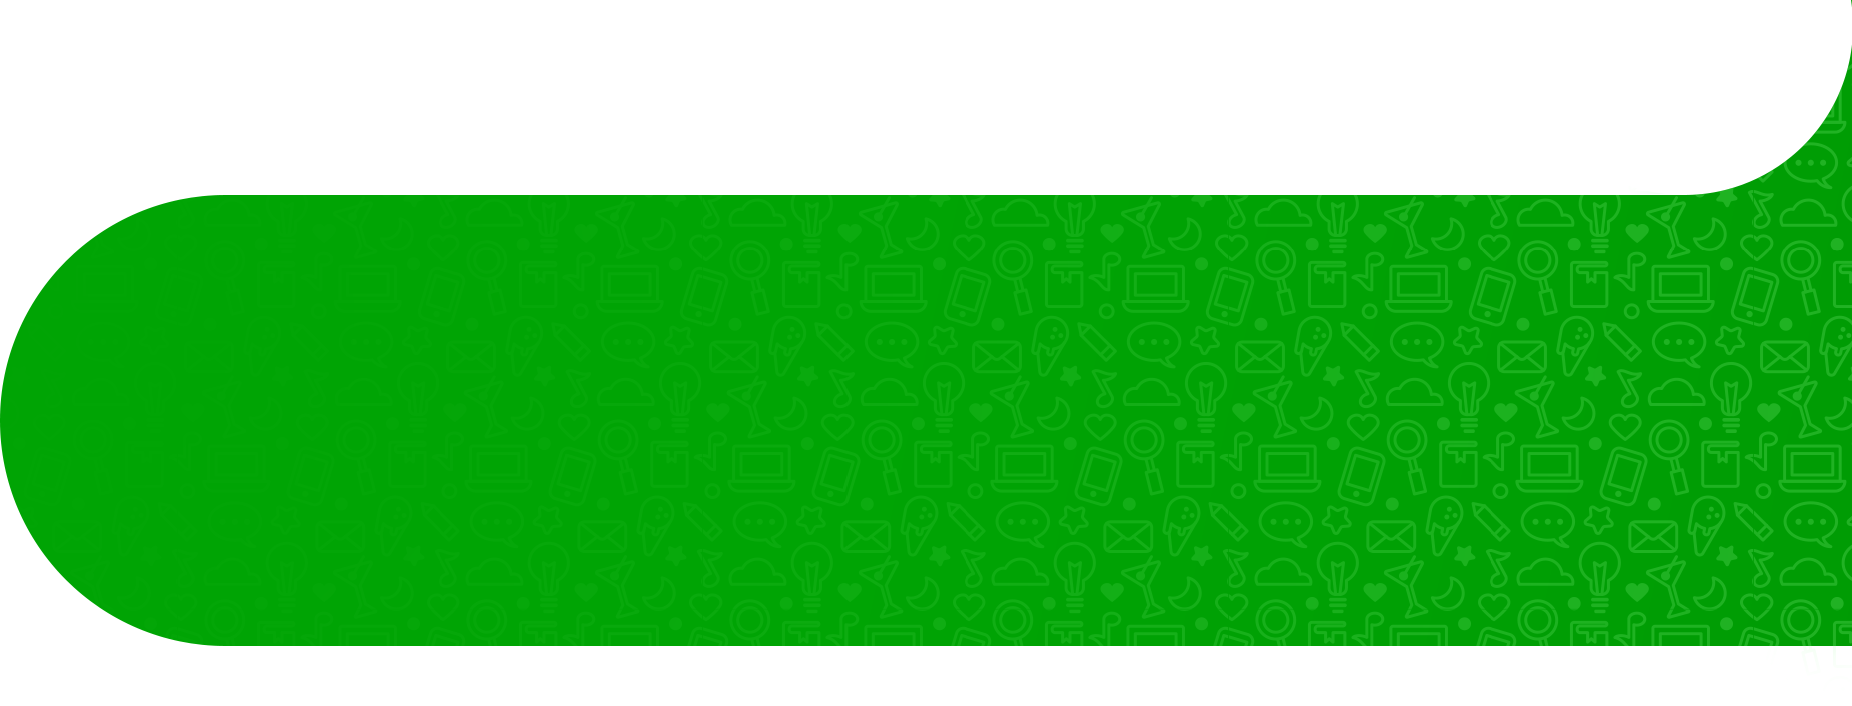
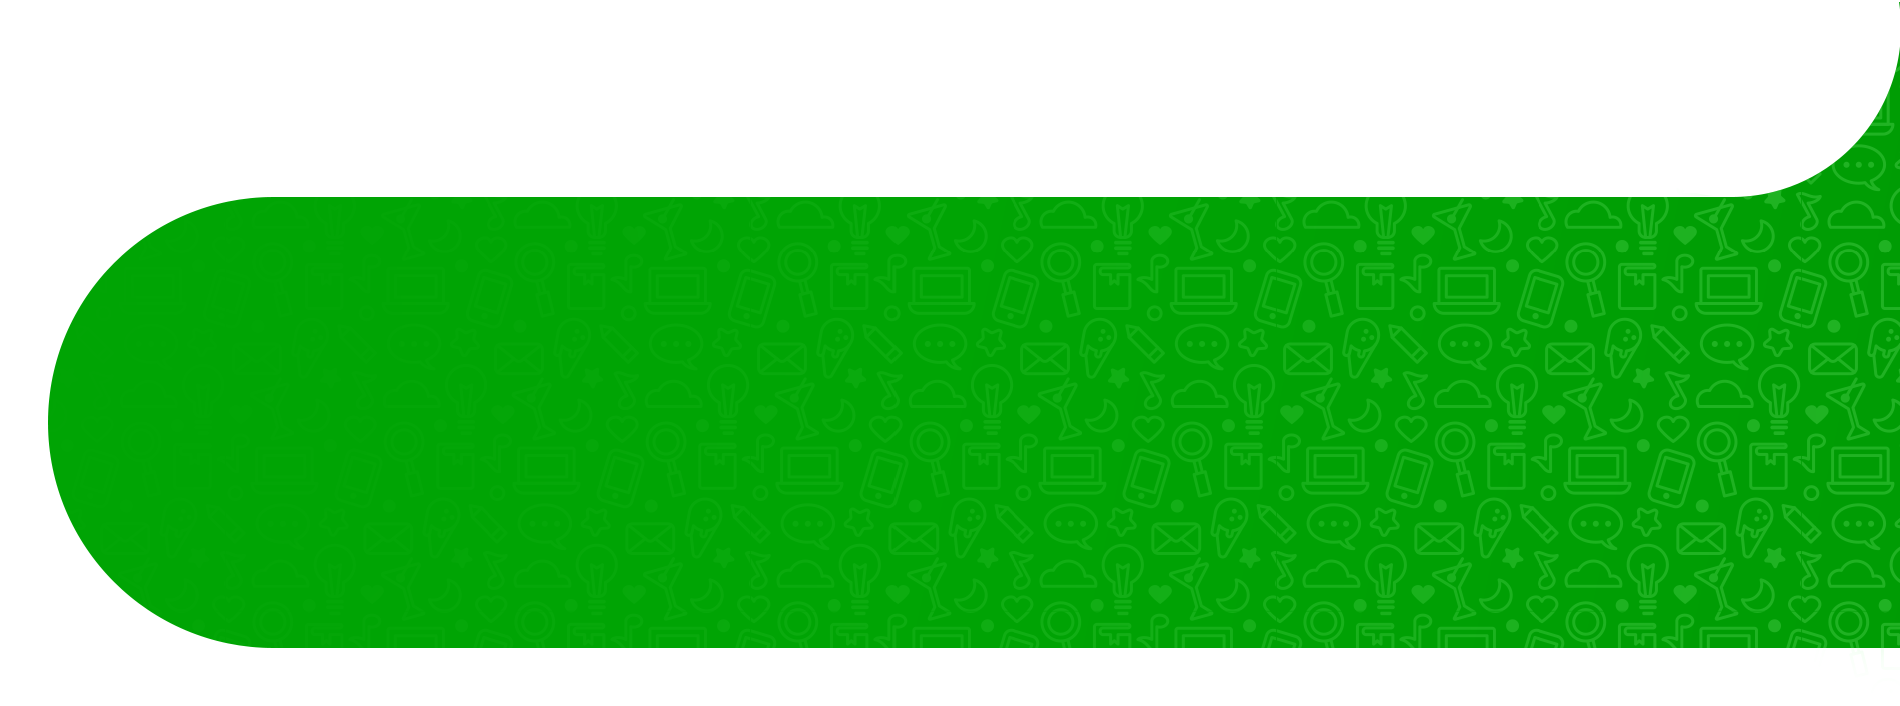
add new

diff --git a/src/app/header/header.component.css b/src/app/header/header.component.css
@@ -1,19 +1,21 @@
 .container{
   background-image: url(../../assets/images/Header_Main_IMG.png);
   background-repeat: no-repeat;
-  width: 100%;
   display: flex;
+  background-position: center;
+  justify-content: center;
 }
 
 .container_logo{
   display: flex;
+  margin-left: -620px;
   flex-direction: column;
 }
 
 .container_logo_Img{
   height: 73px;
   width: 283px;
-  margin: 50px 250px 25px;
+  margin: 50px 0px 25px;
 }
 
 .container_text{
@@ -24,7 +26,6 @@
 .container_main_text{
   font-size: 50px;
   color: #ffffff;
-  margin-left: 250px;
   font-family: -apple-system, BlinkMacSystemFont, 'Segoe UI', Roboto, Oxygen, Ubuntu, Cantarell, 'Open Sans', 'Helvetica Neue', sans-serif;
 }
 
@@ -35,7 +36,6 @@
   margin-bottom: 5px;
 }
 .container_text_content{
-  margin-left: 250px;
   color: #ffffff;
   margin-bottom: 30px;
 }
@@ -55,8 +55,9 @@
 }
 
 .container_header_phone_img{
-  width: 900px;
-  margin-left: -200px;
+  width: 794px;
+  margin-top: 78px;
+
 }
 
 .container_header_phone{

diff --git a/src/app/search-field/search-field.component.css b/src/app/search-field/search-field.component.css
@@ -9,6 +9,7 @@
   background-repeat: no-repeat;
 }
 
+
 .container_areacode{
   height: 40px;
   width: 100px;
@@ -73,11 +74,34 @@ input::-webkit-inner-spin-button {
 }
 
 .country{
-  width: 300px;
+  width: 130px;
   position: absolute;
   height: 250px;
-  overflow: scroll;
-  right: 40px;
+  overflow: overlay;
+  right: -1px;
+  top: 0;
+  border: solid;
+  background-color: white;
+  border-top-right-radius: 17px;
+  border-bottom-right-radius: 17px;
+  border-top-left-radius: 17px;
+  border-bottom-left-radius: 17px;
+}
+
+::-webkit-scrollbar {
+  overflow-y: scroll;
+  background: #5f5f5f;
+  border-radius: 50px;
+  border-top-left-radius: 50%;
+  border-bottom-left-radius: 50%;
+  box-shadow: inset 0 0 4px #707070;
+  height: 150px;
+}
+
+::-webkit-scrollbar-thumb {
+    background: #aaaaaa;
+    border-top-right-radius: 40%;
+    border-bottom-right-radius: 40%;
 }
 
 .dropdown_icon_img{

diff --git a/src/app/bottom-download/bottom-download.component.css b/src/app/bottom-download/bottom-download.component.css
@@ -1,0 +1,41 @@
+.container_contant{
+  background-image: url(../../assets/images/bottom-image.png);
+  min-height: 890px;
+  margin-top: 162px;
+  background-position: top center;
+  background-repeat: no-repeat;
+  display: flex;
+  justify-content: center;
+  align-items: center;
+}
+
+.container_btn_google{
+  pointer-events: fill;
+  width: 220px;
+  margin-top: 2px;
+  margin-left: 30px;
+}
+
+.container_btn{
+  height: 70px;
+  width: 280px;
+  margin-top: 15px;
+  border-radius: 50px;
+  background-color: black;
+}
+
+.text{
+  margin-top: 239px;
+    display: flex;
+    flex-direction: column;
+    justify-content: center;
+    align-items: center;
+    font-size: 44px;
+    color: #00a404;
+}
+
+.logo{
+  margin-top: 206px;
+  margin-bottom: -11px;
+  width: 1900px;
+}

diff --git a/src/app/app.module.ts b/src/app/app.module.ts
@@ -6,6 +6,8 @@ import { HeaderComponent } from './header/header.component';
 import { SearchFieldComponent } from './search-field/search-field.component';
 import { SearchFieldCountryComponent } from './search-field/search-field-country/search-field-country.component';
 import { HowitworkComponent } from './howitwork/howitwork.component';
+import { VideoComponent } from './video/video.component';
+import { BottomDownloadComponent } from './bottom-download/bottom-download.component';
 
 @NgModule({
   declarations: [
@@ -14,6 +16,8 @@ import { HowitworkComponent } from './howitwork/howitwork.component';
     SearchFieldComponent,
     SearchFieldCountryComponent,
     HowitworkComponent,
+    VideoComponent,
+    BottomDownloadComponent,
   ],
   imports: [
     BrowserModule,

diff --git a/src/app/bottom-download/bottom-download.component.html b/src/app/bottom-download/bottom-download.component.html
@@ -1,0 +1,16 @@
+
+<div class="container">
+  <div class="container_contant">
+      <div class="text">
+        <p>Download <b>App</b></p>
+        <div class="container_btn">
+          <a class="container_btn_a" href="https://google.com">
+          <img class="container_btn_google" src="assets/images/google-play-badge.png" alt="google play">
+          </a>
+      </div>
+      <div class="bottom_logo">
+        <img class="logo" src="assets/images/bootom_startchatlogo.png" alt="">
+      </div>
+    </div>
+  </div>
+</div>

diff --git a/src/app/howitwork/howitwork.component.css b/src/app/howitwork/howitwork.component.css
@@ -5,12 +5,11 @@
   margin-top: -550px;
   flex-direction: column;
   background-image: url(../../assets/images/howitworkback.png);
-  background-position: right;
-  width: 1920px;
+  background-position: center;
+  width: 100%;
   background-repeat: no-repeat;
   background-position-y: 250px;
 }
-
 .container_header_text{
   font-weight: 400;
   color:#00a404;
@@ -77,7 +76,7 @@
 .icons{
   margin-top: -120px;
   display: flex;
-  width: 100%;
+  width: 1900px;
   justify-content: space-evenly;
 }
 

diff --git a/src/app/video/video.component.html b/src/app/video/video.component.html
@@ -1,0 +1,6 @@
+<div class="container">
+    <div class="container_video">
+      <img class="video_border" src="assets/images/computer.png" alt="">
+      <iframe class="video" src="https://www.youtube.com/embed/7_gIbNoRza4" frameborder="0" allow="accelerometer; autoplay; clipboard-write; encrypted-media; gyroscope; picture-in-picture" allowfullscreen></iframe>
+     </div>
+</div>

diff --git a/src/app/bottom-download/bottom-download.component.ts b/src/app/bottom-download/bottom-download.component.ts
@@ -1,0 +1,15 @@
+import { Component, OnInit } from '@angular/core';
+
+@Component({
+  selector: 'app-bottom-download',
+  templateUrl: './bottom-download.component.html',
+  styleUrls: ['./bottom-download.component.css']
+})
+export class BottomDownloadComponent implements OnInit {
+
+  constructor() { }
+
+  ngOnInit(): void {
+  }
+
+}

diff --git a/src/app/video/video.component.ts b/src/app/video/video.component.ts
@@ -1,0 +1,15 @@
+import { Component, OnInit } from '@angular/core';
+
+@Component({
+  selector: 'app-video',
+  templateUrl: './video.component.html',
+  styleUrls: ['./video.component.css']
+})
+export class VideoComponent implements OnInit {
+
+  constructor() { }
+
+  ngOnInit(): void {
+  }
+
+}

diff --git a/src/app/search-field/search-field-country/search-field-country.component.html b/src/app/search-field/search-field-country/search-field-country.component.html
@@ -1,5 +1,5 @@
 <div *ngFor="let item of countryList" (click)="onSelect(item)" class="container">
   <img class="container_img" [src]="item.flag"  alt="icon">
-  <p class="country_name">{{ item.name }}</p>
+  <!-- <p class="country_name">{{ item.name }}</p> -->
   <p>{{item.dial_code }}</p>
 </div>

diff --git a/src/app/video/video.component.css b/src/app/video/video.component.css
@@ -1,0 +1,18 @@
+.container{
+  margin-top: 100px;
+}
+.container_video{
+  display: flex;
+  flex-direction: column;
+  align-items: center;
+}
+.video_border{
+  width: 1900px;
+}
+
+.video{
+  margin-top: -492px;
+  width: 570px;
+  height: 330px;
+}
+

diff --git a/src/app/app.component.html b/src/app/app.component.html
@@ -1,3 +1,5 @@
 <app-header></app-header>
 <app-search-field></app-search-field>
 <app-howitwork></app-howitwork>
+<app-video></app-video>
+<app-bottom-download></app-bottom-download>
